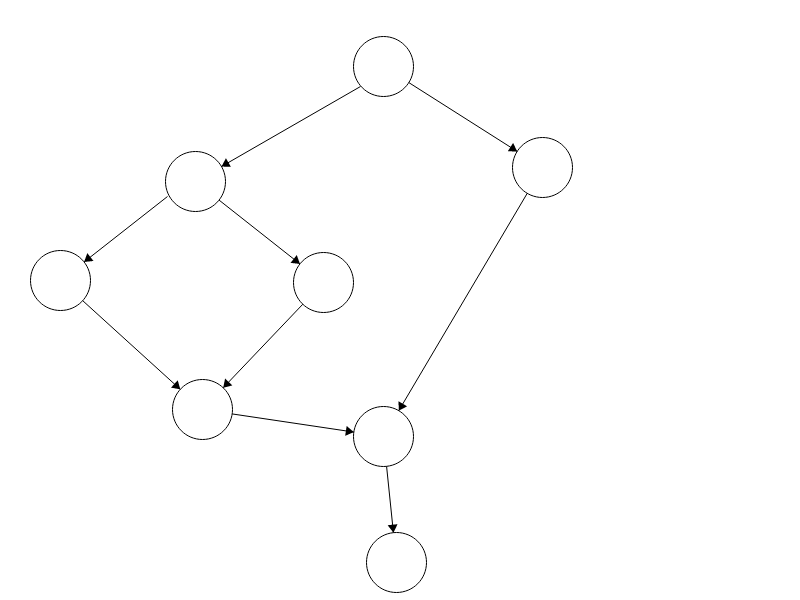
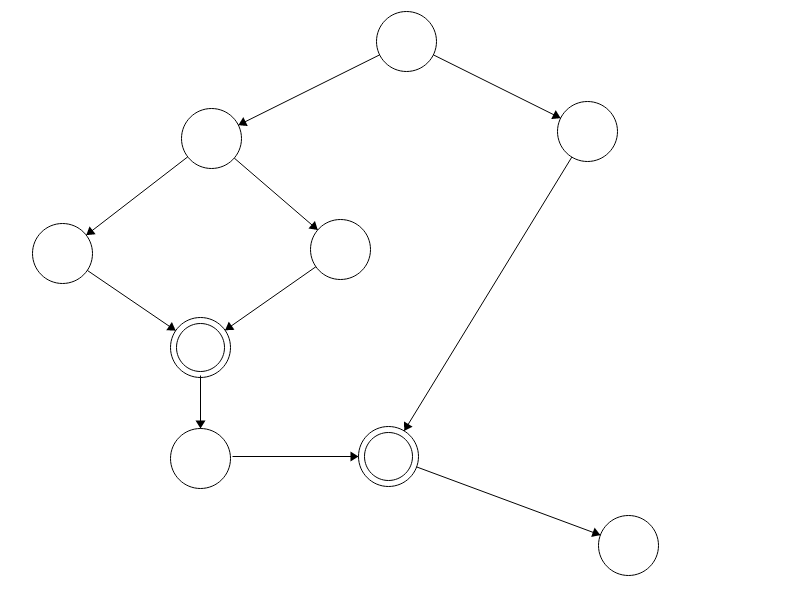
documented progress on junction inside junction tests.

diff --git a/Journal/Week_9.md b/Journal/Week_9.md
@@ -248,3 +248,74 @@ the first fork (i.e., `fork(task1, task3)`), which in fact is wrapped around
 a `join`.
 
 ## junction inside junction
+
+Also using similar tasks to the ones above I tried to make junction work 
+inside a junction. Some workflow like this was intended in the end:
+
+![alt text](https://github.com/bionode/GSoC17/blob/master/Experimental_code/Experimental_Pipelines/junction_junction/index.png "junction junction")
+
+So I made the following script:
+
+```javascript
+'use strict'
+
+// === WATERMILL ===
+const {
+  task,
+  join,
+  junction,
+  fork
+} = require('../../..')
+
+const task0 = task({name: 'coco'}, () => `echo "something0"`)
+
+const task1 = task({name: 'xixi'}, () => `echo "something1"`)
+
+const task2 = task({name: 'foo'}, () => `echo "something2"`)
+
+const task3 = task({name: 'bar'}, () => `echo "something3"`)
+
+const task4 = task({name: 'test'}, () => `echo "something4"`)
+
+const task5 = task({name: 'test1'}, () => `echo "something5"`)
+
+const task6 = task({name: 'test6'}, () => `echo "something6"`)
+
+const pipeline = join(task0, junction(join(task1, junction(task4, task5), task6), task2), task3)
+
+pipeline()
+```
+
+But it was rendering the following error:
+
+```
+Unhandled rejection TypeError: Cannot read property 'name' of undefined
+    at console.log.task.info.map.t (/home/tiago/bin/bionode-watermill/lib/orchestrators/junction.js:17:72)
+    at Array.map (native)
+    at Promise (/home/tiago/bin/bionode-watermill/lib/orchestrators/junction.js:17:59)
+    at Promise._execute (/home/tiago/bin/bionode-watermill/node_modules/bluebird/js/release/debuggability.js:300:9)
+    at Promise._resolveFromExecutor (/home/tiago/bin/bionode-watermill/node_modules/bluebird/js/release/promise.js:483:18)
+    at new Promise (/home/tiago/bin/bionode-watermill/node_modules/bluebird/js/release/promise.js:79:10)
+    at taskToPromise (/home/tiago/bin/bionode-watermill/lib/orchestrators/junction.js:15:39)
+    at Promise.all.tasks.map.task (/home/tiago/bin/bionode-watermill/lib/orchestrators/junction.js:26:44)
+    at Array.map (native)
+    at junctionInvocator (/home/tiago/bin/bionode-watermill/lib/orchestrators/junction.js:26:32)
+    at Promise (/home/tiago/bin/bionode-watermill/lib/orchestrators/join.js:57:9)
+    at Promise._execute (/home/tiago/bin/bionode-watermill/node_modules/bluebird/js/release/debuggability.js:300:9)
+    at Promise._resolveFromExecutor (/home/tiago/bin/bionode-watermill/node_modules/bluebird/js/release/promise.js:483:18)
+    at new Promise (/home/tiago/bin/bionode-watermill/node_modules/bluebird/js/release/promise.js:79:10)
+    at accumulator (/home/tiago/bin/bionode-watermill/lib/orchestrators/join.js:15:58)
+    at tryCatcher (/home/tiago/bin/bionode-watermill/node_modules/bluebird/js/release/util.js:16:23)
+
+```
+
+However this error is solved if we comment the line 17 in `./lib/orchestrators/junction.js`
+
+```javascript
+console.log('Junction created for: ', task.info.map(t => `${t.name} (${t.uid})`))
+```
+
+In fact besides `console.log`ging this information nothing else is using `t.name` and thus pipeline properly ended as expected:
+
+![alt text](https://github.com/bionode/GSoC17/blob/master/Experimental_code/Experimental_Pipelines/junction_junction/result.png "junction junction")
+
